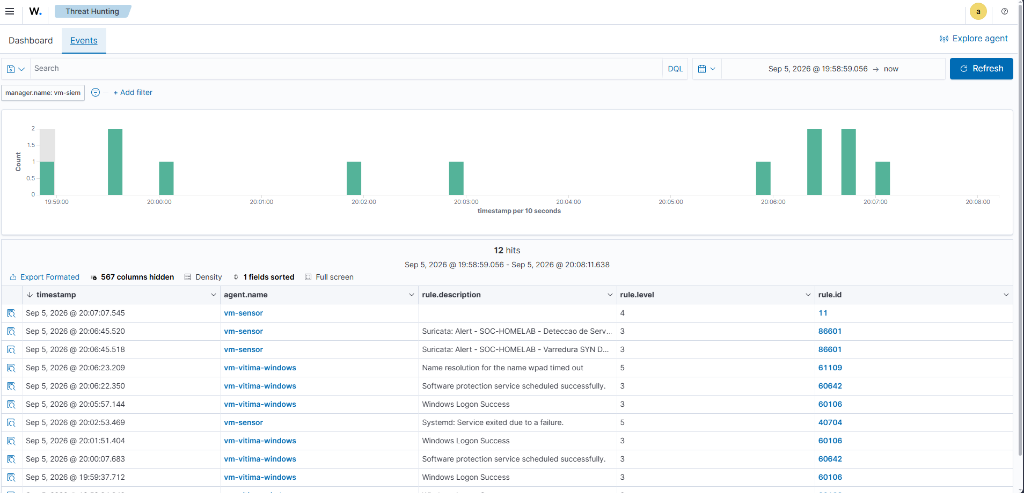
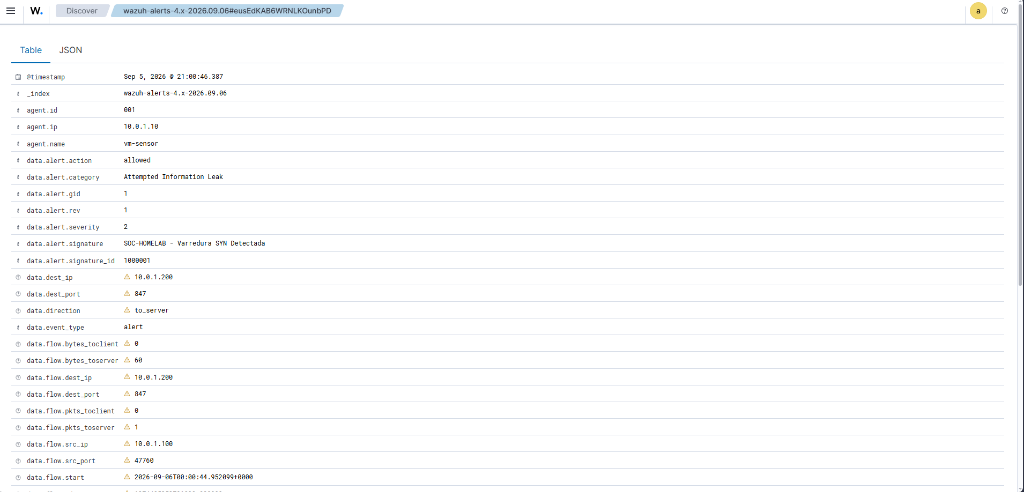
docs: atualizar evidencia do nmap com alvo na vitima e modo promiscuo

diff --git a/testes/01-varredura-nmap.md b/testes/01-varredura-nmap.md
@@ -20,8 +20,9 @@
 ## 3. Topologia e Parâmetros
 
 * **IP Atacante (Kali Linux):** `10.0.1.100` (porta de origem efêmera)
-* **IP Alvo / Sensor:** `10.0.1.10` (`VM-Sensor`)
-* **Portas Alvo:** `1-100/TCP`
+* **IP Alvo (Vítima Linux):** `10.0.1.200` (`VM-Vítima`)
+* **Sensor em Modo Promíscuo:** `10.0.1.10` (`VM-Sensor` via `ens34`)
+* **Portas Alvo:** `1-1000/TCP`
 * **Ferramenta Utilizada:** `nmap` v7.99
 
 ---
@@ -48,10 +49,10 @@ alert tcp any any -> $HOME_NET any (
 ## 5. Evidências Coletadas
 
 ### 5.1 Execução Ofensiva no Kali Linux
-O comando executado enviou 100 pacotes SYN em 0.17 segundos, ultrapassando com sucesso o threshold da regra (mínimo de 20 pacotes em 5 segundos):
+O comando executado enviou pacotes SYN contra a máquina vítima, ultrapassando o threshold da regra (mínimo de 20 pacotes em 5 segundos):
 
 ```bash
-sudo nmap -sS -T4 -n -p 1-100 10.0.1.10
+sudo nmap -sS -p 1-1000 -n -T4 10.0.1.200
 ```
 
 ![Execução do Nmap no Kali Linux](../imagens/evidencias/01-nmap-kali.png)
@@ -59,14 +60,14 @@ sudo nmap -sS -T4 -n -p 1-100 10.0.1.10
 ### 5.2 Alerta Capturado no Suricata (`eve.json`)
 ```json
 {
-  "timestamp": "2026-09-05T20:06:45.140351-0300",
-  "flow_id": 1481590634698141,
+  "timestamp": "2026-09-05T21:00:44.952099-0300",
+  "flow_id": 276477581531792,
   "in_iface": "ens34",
   "event_type": "alert",
-  "src_ip": "10.0.1.135",
-  "src_port": 61857,
-  "dest_ip": "10.0.1.10",
-  "dest_port": 38,
+  "src_ip": "10.0.1.100",
+  "src_port": 47760,
+  "dest_ip": "10.0.1.200",
+  "dest_port": 847,
   "proto": "TCP",
   "alert": {
     "action": "allowed",
